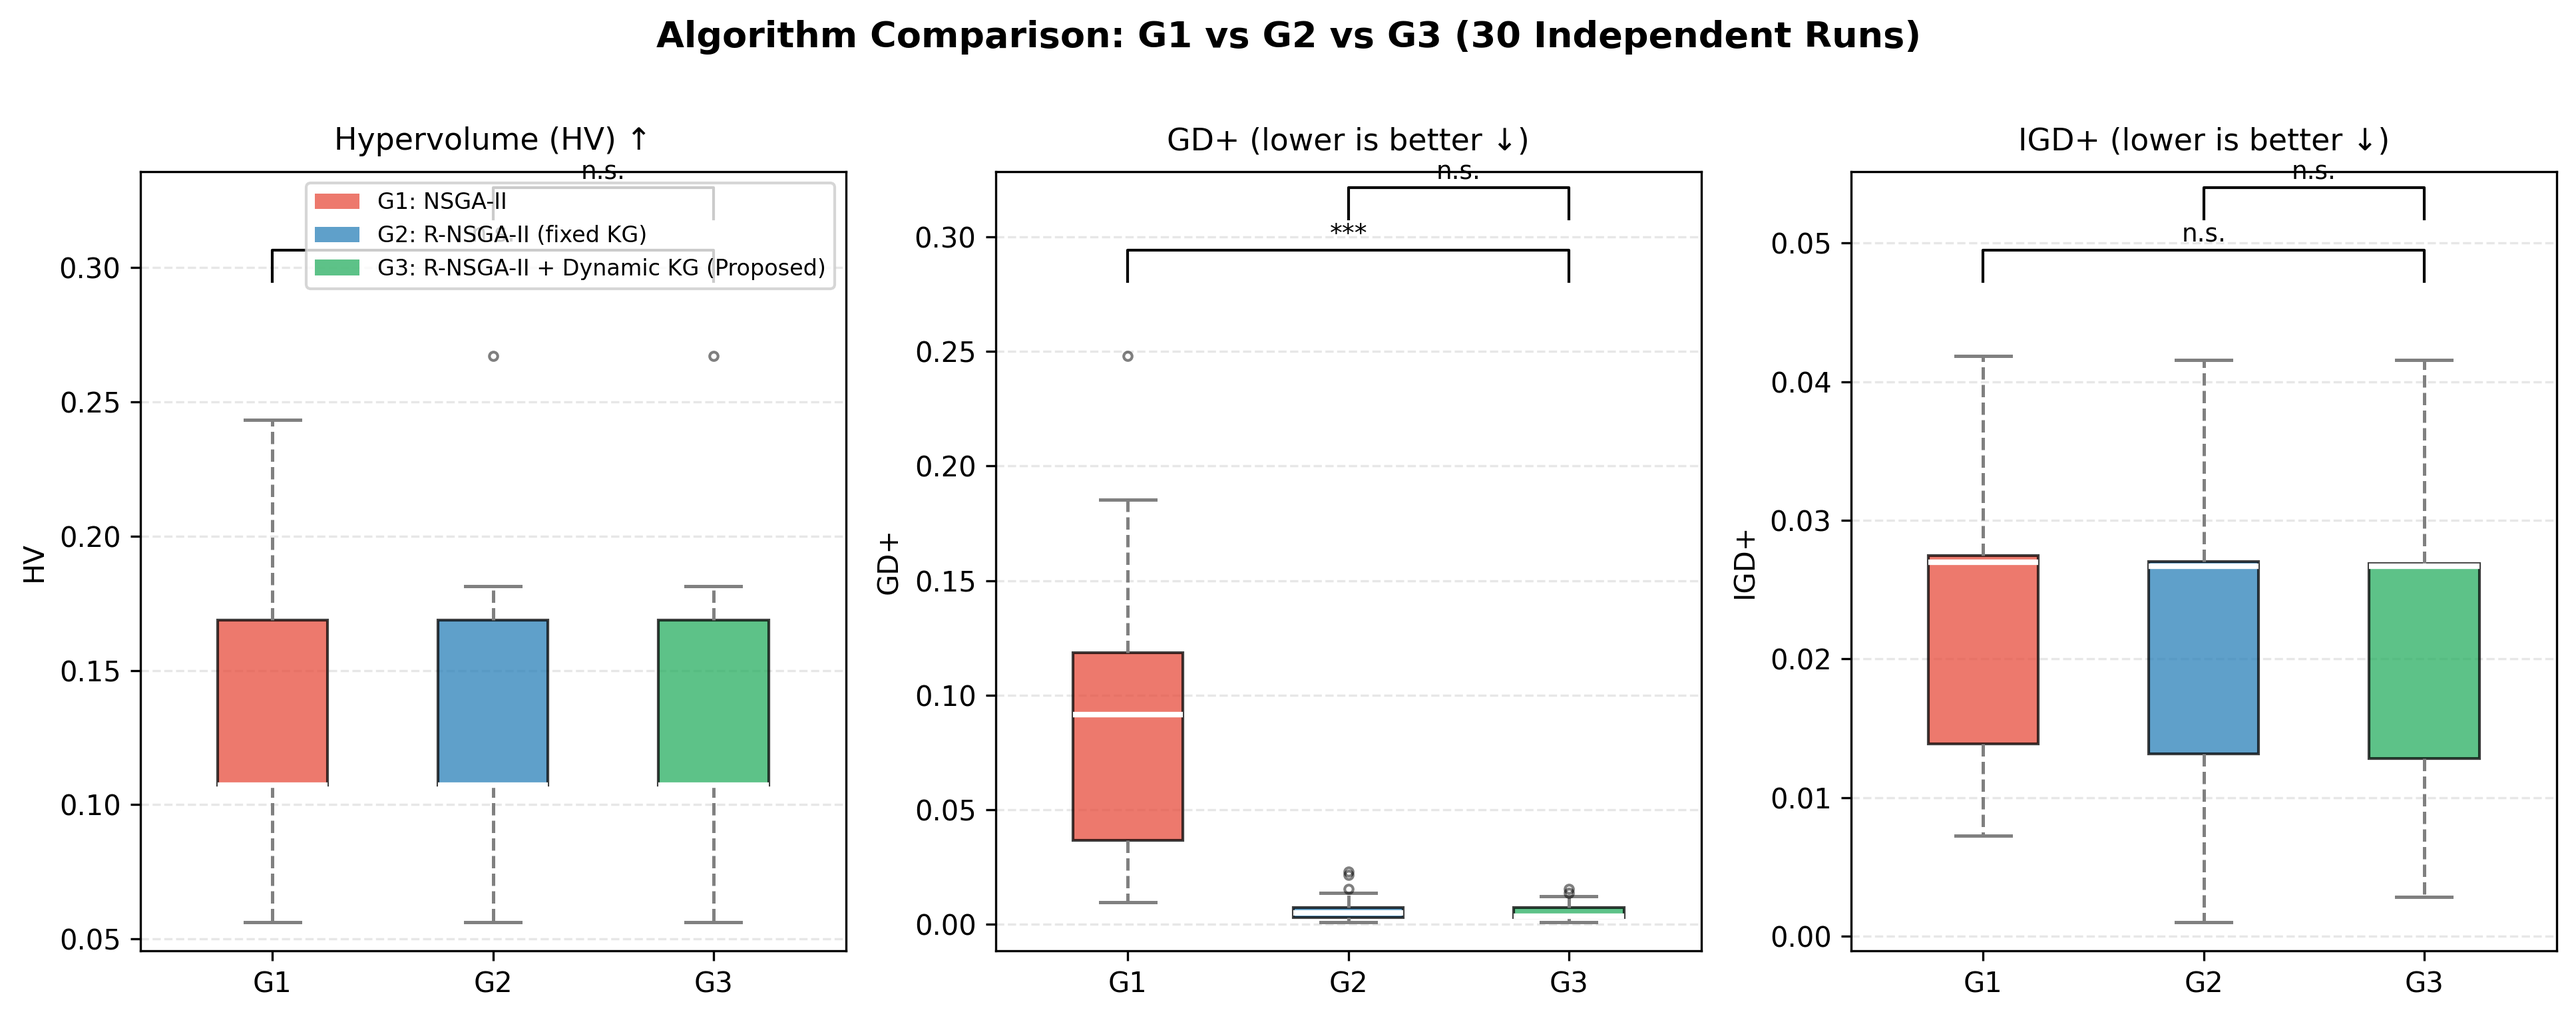
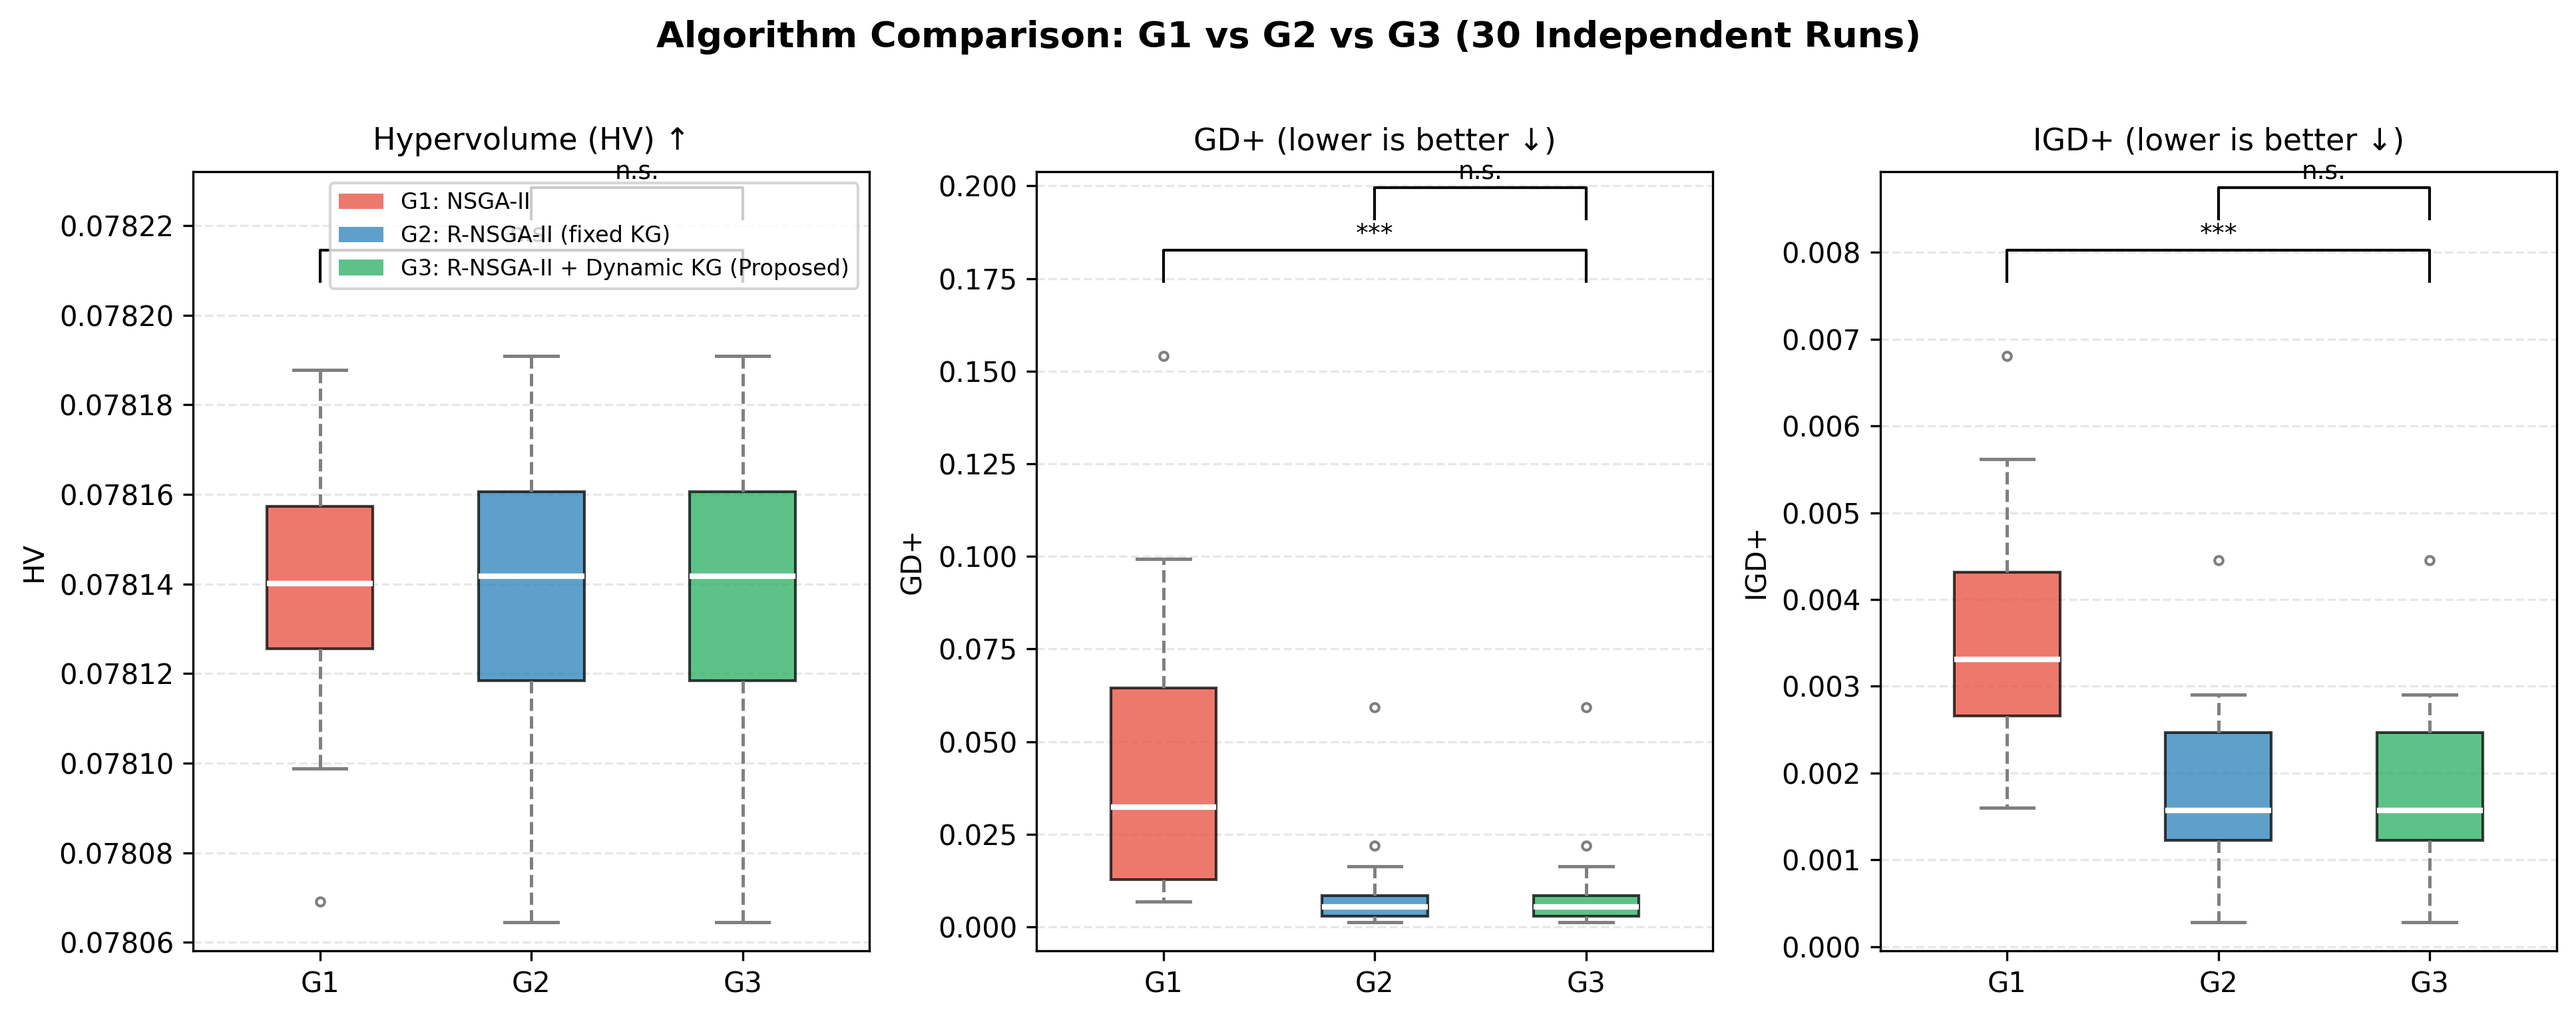
refactor: KGManager 카테고리 완전 제거 + 메뉴 별점 기반 선호도 + 30회 재실험
- kg_manager.py: 카테고리 노드/IS_IN 엣지/형제감쇠 제거 → User↔Menu 최소 구조
  - set_rating() 추가: 별점 1~5 → P_i = rating/3.0 (3★=중립=1.0)
  - get_score(): 직접 ATE 시간감쇠만 적용 (D_i = e^{-λΔt})
  - from_config(): 카테고리 인자 제거, 메뉴 직접 별점 등록
- run_simulation_step1.py: KG_PREFERENCES 메뉴 직접 별점으로 변경
  {"비빔밥": 4, "된장찌개": 3} (기존 카테고리 기반 {"MAIN": 4} 제거)
- experiment/results/step1/: 30회 재실험 결과 갱신
  G1 GD+=0.0441 / G2·G3 GD+=0.0081 (p=0.0000 ✅)
  Loop B: f4=0.25 일정, 중복률 0~1.4%

diff --git a/experiment/core/kg_manager.py b/experiment/core/kg_manager.py
@@ -1,34 +1,27 @@
-"""KGManager — NetworkX 기반 지식 그래프 (선호도 + 시간 감쇠).
+"""KGManager — NetworkX 기반 지식 그래프 (사용자-메뉴 관계만).
 
 노드:
-  user     : 사용자
-  menu     : 후보 메뉴 (product_name / menu_name)
-  category : 식품군 (MAIN, SIDE_SOUP, DRINK, SNACK, ...)
+  user : 사용자
+  menu : 후보 메뉴 (product_name / menu_name)
 
 엣지 (MultiDiGraph, key로 종류 구분):
-  IS_IN   (Menu → Category)         : 정적 분류 관계
-  PREFERS (User → Category/Menu)    : 선호도 가중치 (weight: float)
-  ATE     (User → Menu)             : 마지막 섭취 타임스탬프 (timestamp: datetime)
-
-  ※ MultiDiGraph로 같은 (user→menu) 쌍에 PREFERS·ATE 동시 저장 가능.
+  PREFERS (User → Menu) : 별점 기반 선호도 (weight = rating / 3.0)
+  ATE     (User → Menu) : 마지막 섭취 타임스탬프 (timestamp: datetime)
 
 선호도(P_i):
-  별점(1~5) 기반: P_i = rating / 3.0
-    1★ → 0.33, 3★ → 1.0(중립), 5★ → 1.67
-  카테고리 PREFERS가 없으면 기본값 1.0 (3★ 중립과 동등)
-  set_rating()으로 별점 입력 → set_preference()로 내부 저장
+  P_i = rating / 3.0  →  1★=0.33, 3★=1.0(중립), 5★=1.67
+  PREFERS 없으면 기본값 1.0 (3★ 중립과 동등)
 
-추천 점수 공식:
-  Score_KG(i) = P_i × (1 - D_i)
+시간 감쇠(D_i):
   D_i = e^{-λ·Δt}  (직접 ATE일 때만, Δt = 경과 일수)
-  슬롯이 카테고리별로 고정(MAIN/SIDE_SOUP/DRINK)되므로 형제 메뉴 유사도 불필요.
+  ATE 없으면 D_i = 0
+
+추천 점수:
+  Score_KG(i) = P_i × (1 - D_i)  ∈ [0, max_preference]
 
 f4 오차율:
   f4 = (max_score - avg_score) / max_score  ∈ [0, 1]
-  max_score = 최대 PREFERS 가중치 (감쇠 없음 기준, 기본 1.0 포함)
-
-성능 최적화:
-  - _menu_to_category : 메뉴 ID → 카테고리 O(1) 조회
+  max_score = 최대 PREFERS 가중치 (기본 1.0 포함)
 """
 
 from __future__ import annotations
@@ -40,8 +33,7 @@ try:
     import networkx as nx
 except ImportError as exc:
     raise ImportError(
-        "KGManager requires the optional dependency 'networkx'. "
-        "Install it with `pip install networkx` and try again."
+        "KGManager requires 'networkx'. Install with `pip install networkx`."
     ) from exc
 
 
@@ -49,17 +41,14 @@ def make_menu_id(item: dict) -> str:
     """food_master 아이템 dict에서 유니크 메뉴 ID를 생성한다.
 
     우선순위:
-      1) item['id']   — Supabase UUID (가장 유니크)
-      2) "product_name|brand_name"  — DB 유니크 키 복합
-      3) product_name / menu_name   — fallback
-
-    모든 호출 지점(add_menu, get_score, record_eating)에서 이 함수를 사용하면
-    KG 노드 ID가 항상 동일하게 유지된다.
+      1) item['id']   — Supabase UUID
+      2) "product_name|brand_name"
+      3) product_name / menu_name
     """
     raw_id = item.get("id")
     if raw_id:
         raw_id_str = str(raw_id).strip()
-        if raw_id_str:  # 빈 string / whitespace 제외
+        if raw_id_str:
             return raw_id_str
     name = str(item.get("product_name") or item.get("menu_name") or "")
     brand = str(item.get("brand_name") or "")
@@ -69,61 +58,42 @@ def make_menu_id(item: dict) -> str:
 
 
 class KGManager:
-    """NetworkX MultiDiGraph 기반 지식 그래프."""
+    """NetworkX MultiDiGraph 기반 지식 그래프 (User ↔ Menu 관계만)."""
 
     def __init__(self) -> None:
         self.G: nx.MultiDiGraph = nx.MultiDiGraph()
-        # 성능 인덱스
-        self._menu_to_category: dict[str, str] = {}
 
     # ------------------------------------------------------------------
     # 그래프 구성
     # ------------------------------------------------------------------
 
-    def add_menu(self, menu_id: str, category: str) -> None:
-        """메뉴 노드 + IS_IN 엣지 추가."""
+    def add_menu(self, menu_id: str) -> None:
+        """메뉴 노드 등록."""
         self.G.add_node(menu_id, type="menu")
-        self.G.add_node(category, type="category")
-        if not self.G.has_edge(menu_id, category, key="IS_IN"):
-            self.G.add_edge(menu_id, category, key="IS_IN")
-        self._menu_to_category[menu_id] = category
 
-    def set_rating(self, user_id: str, target_id: str, rating: int) -> None:
+    def set_rating(self, user_id: str, menu_id: str, rating: int) -> None:
         """별점(1~5)을 선호도 가중치로 변환하여 PREFERS 엣지 추가/갱신.
 
         P_i = rating / 3.0  →  1★=0.33, 3★=1.0(중립), 5★=1.67
         """
         if not (1 <= rating <= 5):
             raise ValueError(f"rating must be 1~5, got {rating}")
-        self.set_preference(user_id, target_id, rating / 3.0)
+        self.set_preference(user_id, menu_id, rating / 3.0)
 
-    def set_preference(self, user_id: str, target_id: str, weight: float) -> None:
-        """PREFERS 엣지 추가/갱신. target은 메뉴 ID 또는 카테고리명."""
+    def set_preference(self, user_id: str, menu_id: str, weight: float) -> None:
+        """PREFERS 엣지 추가/갱신."""
         self.G.add_node(user_id, type="user")
-        # MultiDiGraph: 동일 key="PREFERS" 엣지가 있으면 weight만 갱신
-        if self.G.has_edge(user_id, target_id, key="PREFERS"):
-            self.G[user_id][target_id]["PREFERS"]["weight"] = float(weight)
+        if self.G.has_edge(user_id, menu_id, key="PREFERS"):
+            self.G[user_id][menu_id]["PREFERS"]["weight"] = float(weight)
         else:
-            self.G.add_edge(user_id, target_id, key="PREFERS", weight=float(weight))
+            self.G.add_edge(user_id, menu_id, key="PREFERS", weight=float(weight))
 
     def record_eating(self, user_id: str, menu_id: str, timestamp: datetime) -> None:
         """ATE 엣지 추가/갱신 — 더 최근 타임스탬프로 갱신.
 
         Args:
-            timestamp: 메뉴 섭취 시각. tz-aware 또는 naive 모두 가능.
-                       tz-aware인 경우 UTC offset을 제거하고 naive로 정규화.
-                       (get_score()의 now와 Δt 계산 일관성 보장)
-
-        Note:
-            PREFERS 엣지와 충돌 없음 (MultiDiGraph + key 분리).
-            timezone 정규화:
-              tz-aware "2026-04-25 12:00:00+09:00"
-                → remove tzinfo → naive "2026-04-25 12:00:00"
-                → get_score(now=datetime.now())과 일관된 Δt 계산
+            timestamp: tz-aware인 경우 tzinfo를 제거하고 naive로 정규화.
         """
-        # tz-aware → naive 정규화 (tzinfo 제거, UTC offset은 무시)
-        # 이 방식은 offset 보존이 필요 없고, get_score()의 datetime.now()와
-        # 비교 가능한 naive datetime만 필요한 경우에 적합함.
         if timestamp.tzinfo is not None:
             timestamp = timestamp.replace(tzinfo=None)
         self.G.add_node(user_id, type="user")
@@ -149,36 +119,22 @@ class KGManager:
         """추천 점수 Score_KG(i) = P_i × (1 - D_i).
 
         Args:
-            now: 시뮬레이션 기준 시각 (반드시 naive datetime, tzinfo=None).
-                 None이면 datetime.now() 사용 (로컬 시간, naive).
-                 record_eating()의 timestamp도 naive로 정규화되므로
-                 Δt = (now - ts)의 계산이 일관성 있게 수행됨.
-                 tz-aware datetime을 넘기면 TypeError 발생.
+            now: 시뮬레이션 기준 시각 (naive datetime). None이면 datetime.now().
 
         Returns:
-            Score ∈ [0, max_preference]. 항상 음수가 아님.
+            Score ∈ [0, max_preference].
         """
         if now is None:
-            now = datetime.now()  # naive datetime (로컬 시간)
+            now = datetime.now()
         elif now.tzinfo is not None:
-            raise TypeError(
-                f"get_score(now=...) expects naive datetime, but got tzinfo={now.tzinfo}. "
-                "Use datetime.now() or datetime.fromisoformat(ts_str) without timezone."
-            )
+            raise TypeError("get_score(now=...) expects naive datetime.")
 
-        # ── 1) 선호도(P_i) ───────────────────────────────────────
+        # ── P_i: 메뉴 직접 PREFERS, 없으면 1.0 ─────────────────────────
         preference = 1.0
-        # 1-a) 메뉴 직접 PREFERS
         if self.G.has_edge(user_id, menu_id, key="PREFERS"):
             preference = float(self.G[user_id][menu_id]["PREFERS"].get("weight", 1.0))
-        else:
-            # 1-b) 카테고리 PREFERS (IS_IN 전파)
-            cat = self._menu_to_category.get(menu_id)
-            if cat and self.G.has_edge(user_id, cat, key="PREFERS"):
-                preference = float(self.G[user_id][cat]["PREFERS"].get("weight", 1.0))
 
-        # ── 2) 시간 감쇠(D_i) — D_i = e^{-λΔt} (직접 ATE일 때만) ─────────
-        # 슬롯이 카테고리별로 고정(MAIN/SIDE_SOUP/DRINK)되므로 형제 유사도 불필요.
+        # ── D_i: 직접 ATE일 때만 e^{-λΔt} ──────────────────────────────
         decay = 0.0
         if self.G.has_edge(user_id, menu_id, key="ATE"):
             ts = self.G[user_id][menu_id]["ATE"].get("timestamp")
@@ -186,18 +142,12 @@ class KGManager:
                 delta_days = max(0.0, (now - ts).total_seconds() / 86400.0)
                 decay = math.exp(-lambda_decay * delta_days)
         decay = min(1.0, max(0.0, decay))
-        # 음수 weight 방어: preference가 음수여도 score는 0 이상 보장
-        score = preference * (1.0 - decay)
-        return max(0.0, score)
+
+        return max(0.0, preference * (1.0 - decay))
 
     def max_possible_score(self, user_id: str) -> float:
-        """이론상 최대 추천 점수 = 최대 PREFERS 가중치 (감쇠 없음 기준).
-
-        기본 선호도 1.0을 포함하여 계산 — 모든 weight < 1.0이어도
-        기본값 메뉴의 score가 max_s를 초과해 f4가 음수가 되는 것을 방지.
-        PREFERS 엣지가 없으면 기본값 1.0 반환.
-        """
-        weights: list[float] = [1.0]  # 기본 선호도 항상 포함
+        """이론상 최대 추천 점수 = 최대 PREFERS 가중치 (기본 1.0 포함)."""
+        weights: list[float] = [1.0]
         if not self.G.has_node(user_id):
             return 1.0
         for _, _, key, edata in self.G.out_edges(user_id, keys=True, data=True):
@@ -219,10 +169,9 @@ class KGManager:
         """YAML kg 섹션으로 KGManager 구성.
 
         kg_cfg 예시:
-          user_id: user_0
           preferences:
-            MAIN: 1.2
-            DRINK: 0.8
+            <menu_id>: 4        # 별점 1~5 → set_rating()
+            <menu_id>: 1.33     # raw weight → set_preference()
           user_history:
             - menu_id: "비빔밥"
               timestamp: "2026-04-25T12:00:00"
@@ -231,13 +180,10 @@ class KGManager:
 
         alias_to_menu_ids: dict[str, set[str]] = {}
 
-        # 전체 음식 메뉴 노드 등록 — make_menu_id() 모듈 함수로 통일
         for item in all_foods:
             mid = make_menu_id(item)
-            cat = item.get("category", "UNKNOWN")
             if mid:
-                kg.add_menu(mid, cat)
-
+                kg.add_menu(mid)
                 for alias in (
                     item.get("id"),
                     item.get("product_name"),
@@ -247,51 +193,36 @@ class KGManager:
                     if alias_str:
                         alias_to_menu_ids.setdefault(alias_str, set()).add(mid)
 
-        def _normalize_target_id(raw_target_id: str) -> str:
-            target_id = str(raw_target_id).strip()
-            mapped_ids = alias_to_menu_ids.get(target_id)
-            if mapped_ids and len(mapped_ids) == 1:
-                return next(iter(mapped_ids))
-            # 매핑 실패 시 원본 ID 반환 (명시적 주석)
-            if mapped_ids and len(mapped_ids) > 1:
-                # 하나의 alias가 여러 메뉴에 매핑됨 (보통 발생하지 않음)
-                pass
-            return target_id
+        def _resolve(raw: str) -> str:
+            mapped = alias_to_menu_ids.get(str(raw).strip())
+            if mapped and len(mapped) == 1:
+                return next(iter(mapped))
+            return str(raw).strip()
 
-        # 선호도 설정 — 정수(1~5)면 별점으로 해석, float이면 raw weight로 저장
-        n_prefs_set = 0
+        # 선호도 설정 — int(1~5)면 별점, float이면 raw weight
         for target_id, value in (kg_cfg.get("preferences") or {}).items():
-            tid = _normalize_target_id(str(target_id))
+            mid = _resolve(str(target_id))
             if isinstance(value, int) and 1 <= value <= 5:
-                kg.set_rating(user_id, tid, value)
+                kg.set_rating(user_id, mid, value)
             else:
-                kg.set_preference(user_id, tid, float(value))
-            n_prefs_set += 1
+                kg.set_preference(user_id, mid, float(value))
 
-        # 섭취 이력 등록 — timestamp를 UTC 기준 naive datetime으로 정규화
-        n_history_added = 0
-        n_history_failed = 0
+        # 섭취 이력 등록
+        n_failed = 0
         for record in (kg_cfg.get("user_history") or []):
-            mid = _normalize_target_id(str(record.get("menu_id", "")))
+            mid = _resolve(str(record.get("menu_id", "")))
             ts_str = str(record.get("timestamp", ""))
             if mid and ts_str:
                 try:
-                    ts = datetime.fromisoformat(ts_str)
-                    # record_eating()이 tz-aware → naive로 정규화하므로
-                    # record.get("timestamp")의 timezone 정보는 무시됨.
-                    # (시뮬레이션/테스트 시 sim_now의 timezone과 일치하도록 UTC 기준 해석)
-                    kg.record_eating(user_id, mid, ts)
-                    n_history_added += 1
+                    kg.record_eating(user_id, mid, datetime.fromisoformat(ts_str))
                 except ValueError:
-                    n_history_failed += 1
+                    n_failed += 1
 
-        if n_history_failed > 0:
+        if n_failed > 0:
             import warnings
             warnings.warn(
-                f"KGManager.from_config: {n_history_failed} user_history record(s) "
-                f"failed to parse (invalid timestamp format or menu_id not found)",
-                UserWarning,
-                stacklevel=2,
+                f"KGManager.from_config: {n_failed} user_history record(s) failed.",
+                UserWarning, stacklevel=2,
             )
 
         return kg

diff --git a/experiment/tools/run_simulation_step1.py b/experiment/tools/run_simulation_step1.py
@@ -69,7 +69,10 @@ HV_SAMPLE_EVERY = 10  # Callback: 매 10세대마다 F 스냅샷 수집
 # 비어있는 KG에서는 G2/G3 모두 f4가 동일하게 나와 비교 의미 없음.
 # MAIN 선호(1.2)·DRINK 비선호(0.8)와 섭취 이력 2건을 사전 세팅.
 TEST_USER      = "test_user_1"
-KG_PREFERENCES = {"MAIN": 4, "DRINK": 2}  # 별점 1~5 → P_i = rating/3.0
+KG_PREFERENCES = {
+    "비빔밥":   4,   # 4★ → P_i = 4/3 ≈ 1.33
+    "된장찌개": 3,   # 3★ → P_i = 1.0 (중립)
+}  # 메뉴 직접 별점 (카테고리 선호도 제거)
 KG_HISTORY     = [
     {"menu_id": "비빔밥",   "timestamp": "2026-05-06T12:00:00"},
     {"menu_id": "된장찌개", "timestamp": "2026-05-06T19:00:00"},

diff --git a/PIPELINE_PROGRESS.md b/PIPELINE_PROGRESS.md
@@ -3,8 +3,10 @@
 ## 현재 상태
 - **완료**: Step 5 — KG 기반 4목적 최적화 (DailyExp3 + R-NSGA-II) + 7일 시뮬레이션 검증 + **30회 본실험** ✅
 - **완료**: **프로젝트 구조 정리 + experiment/ 코드 품질 정리** ✅ (PR #3 merge)
-- **다음 작업**: 결과 분석 (analyze_results.py 실행)
-- 마지막 업데이트: 2026-05-11 (Session 11 종료, PR #3 merge 완료)
+- **완료**: **G1/G2/G3 기술적 검증 실험 + Pareto 시각화** ✅ (PR #5 오픈)
+- **완료**: **KGManager 리팩터링 — 카테고리 완전 제거, 메뉴 별점(1~5★) 기반 선호도** ✅ (Session 13)
+- **다음 작업**: PR #5 merge 후 논문 작성
+- 마지막 업데이트: 2026-05-13 (Session 13 종료, KGManager 리팩터링 + 30회 재실험 완료)
 
 ## 단계별 완료 현황
 | 단계 | 내용 | 상태 | 수치 |
